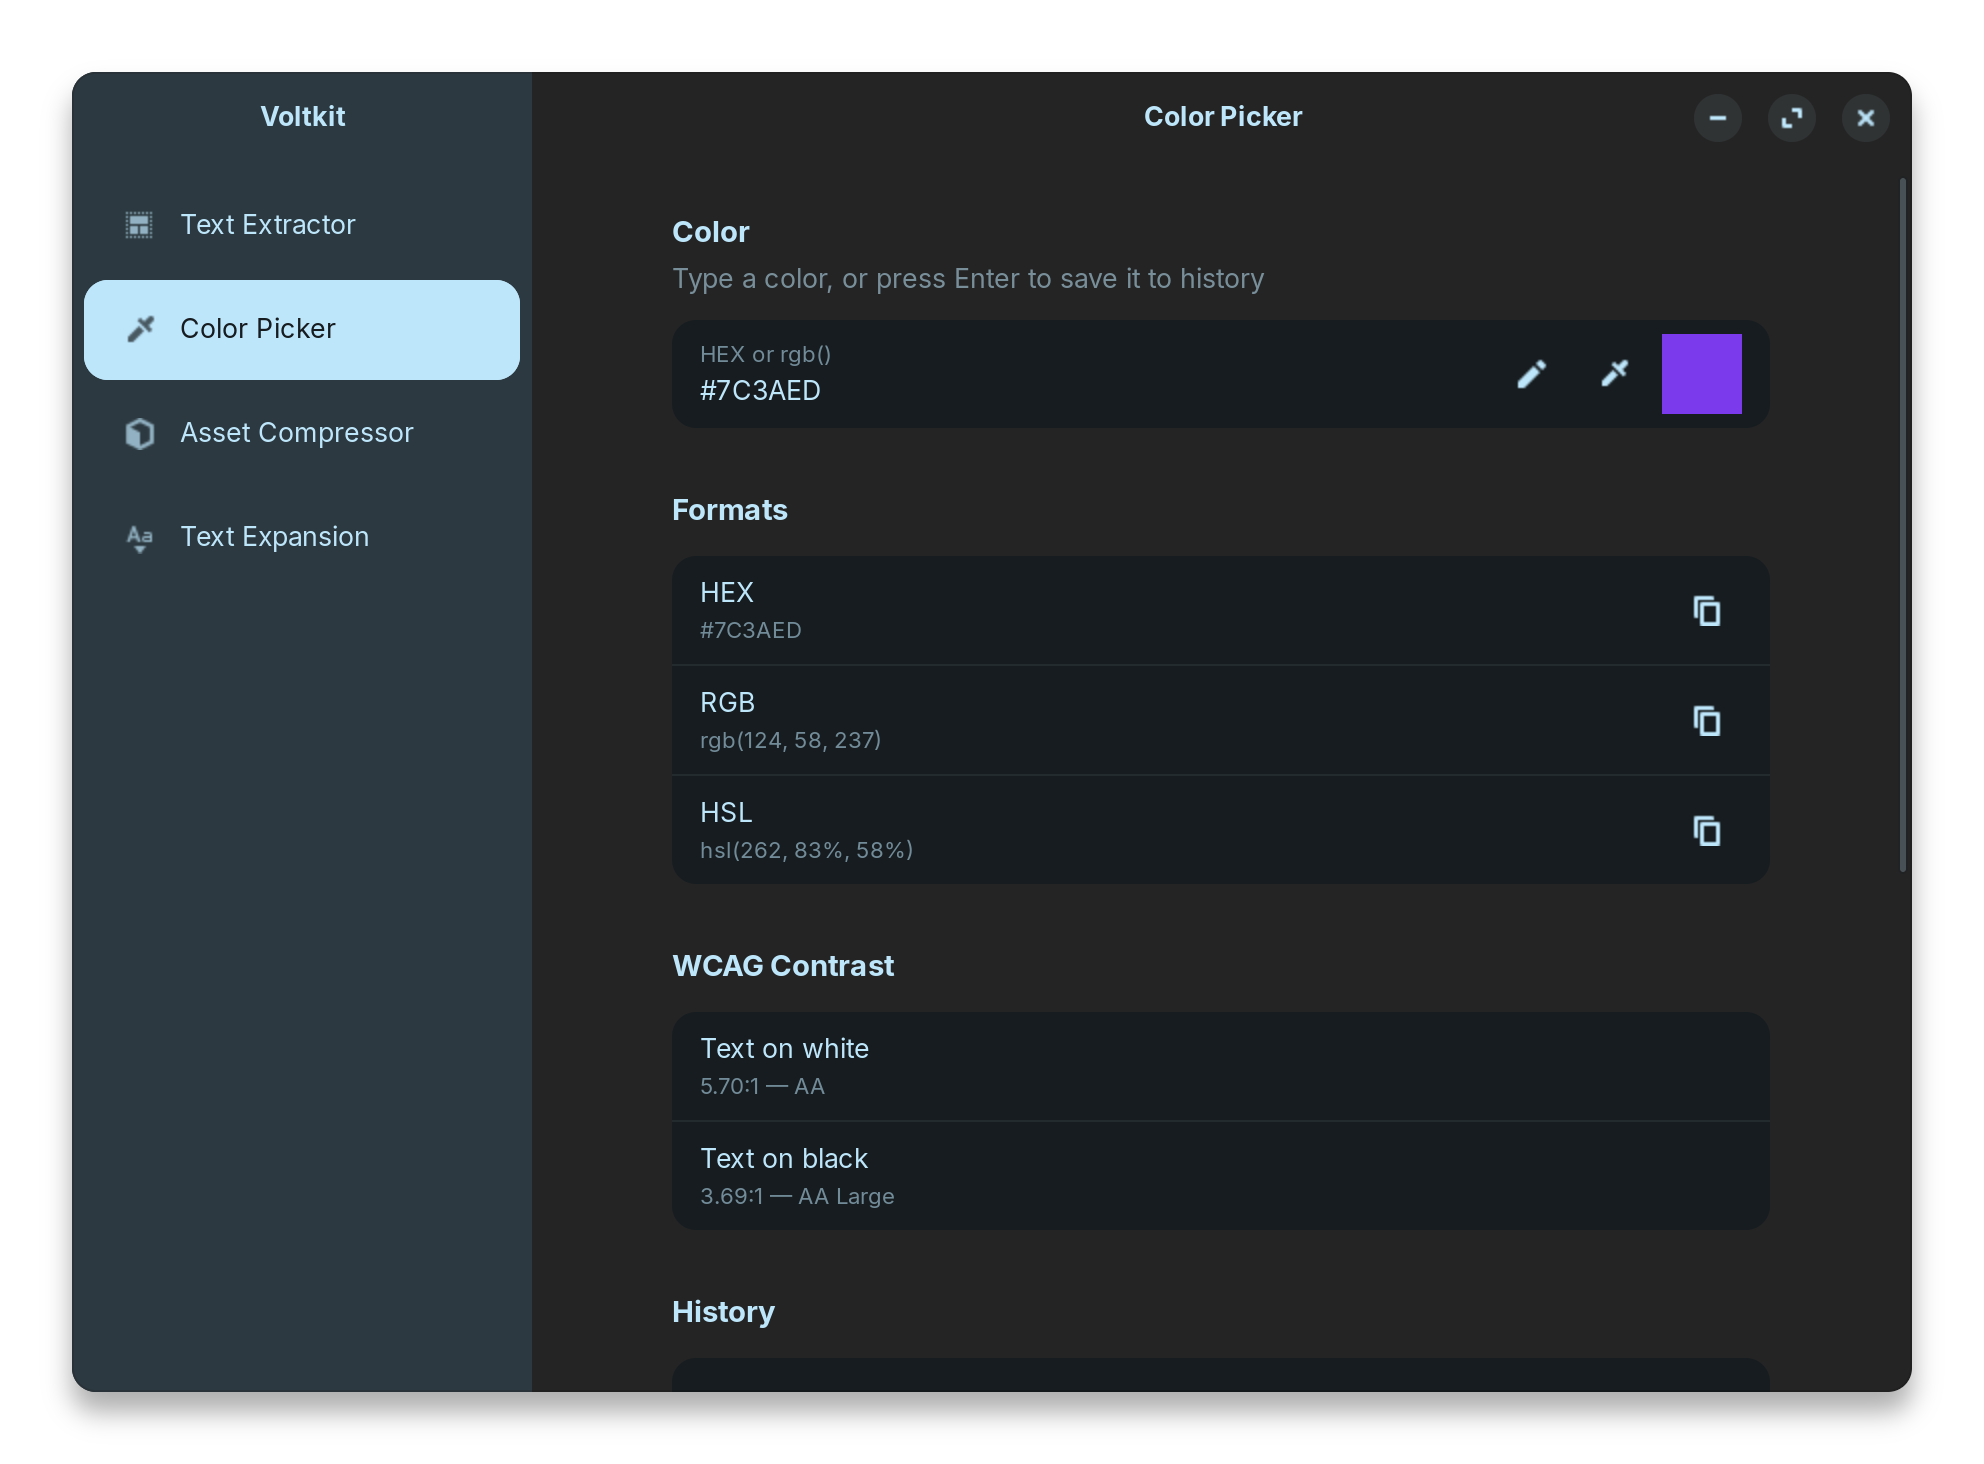
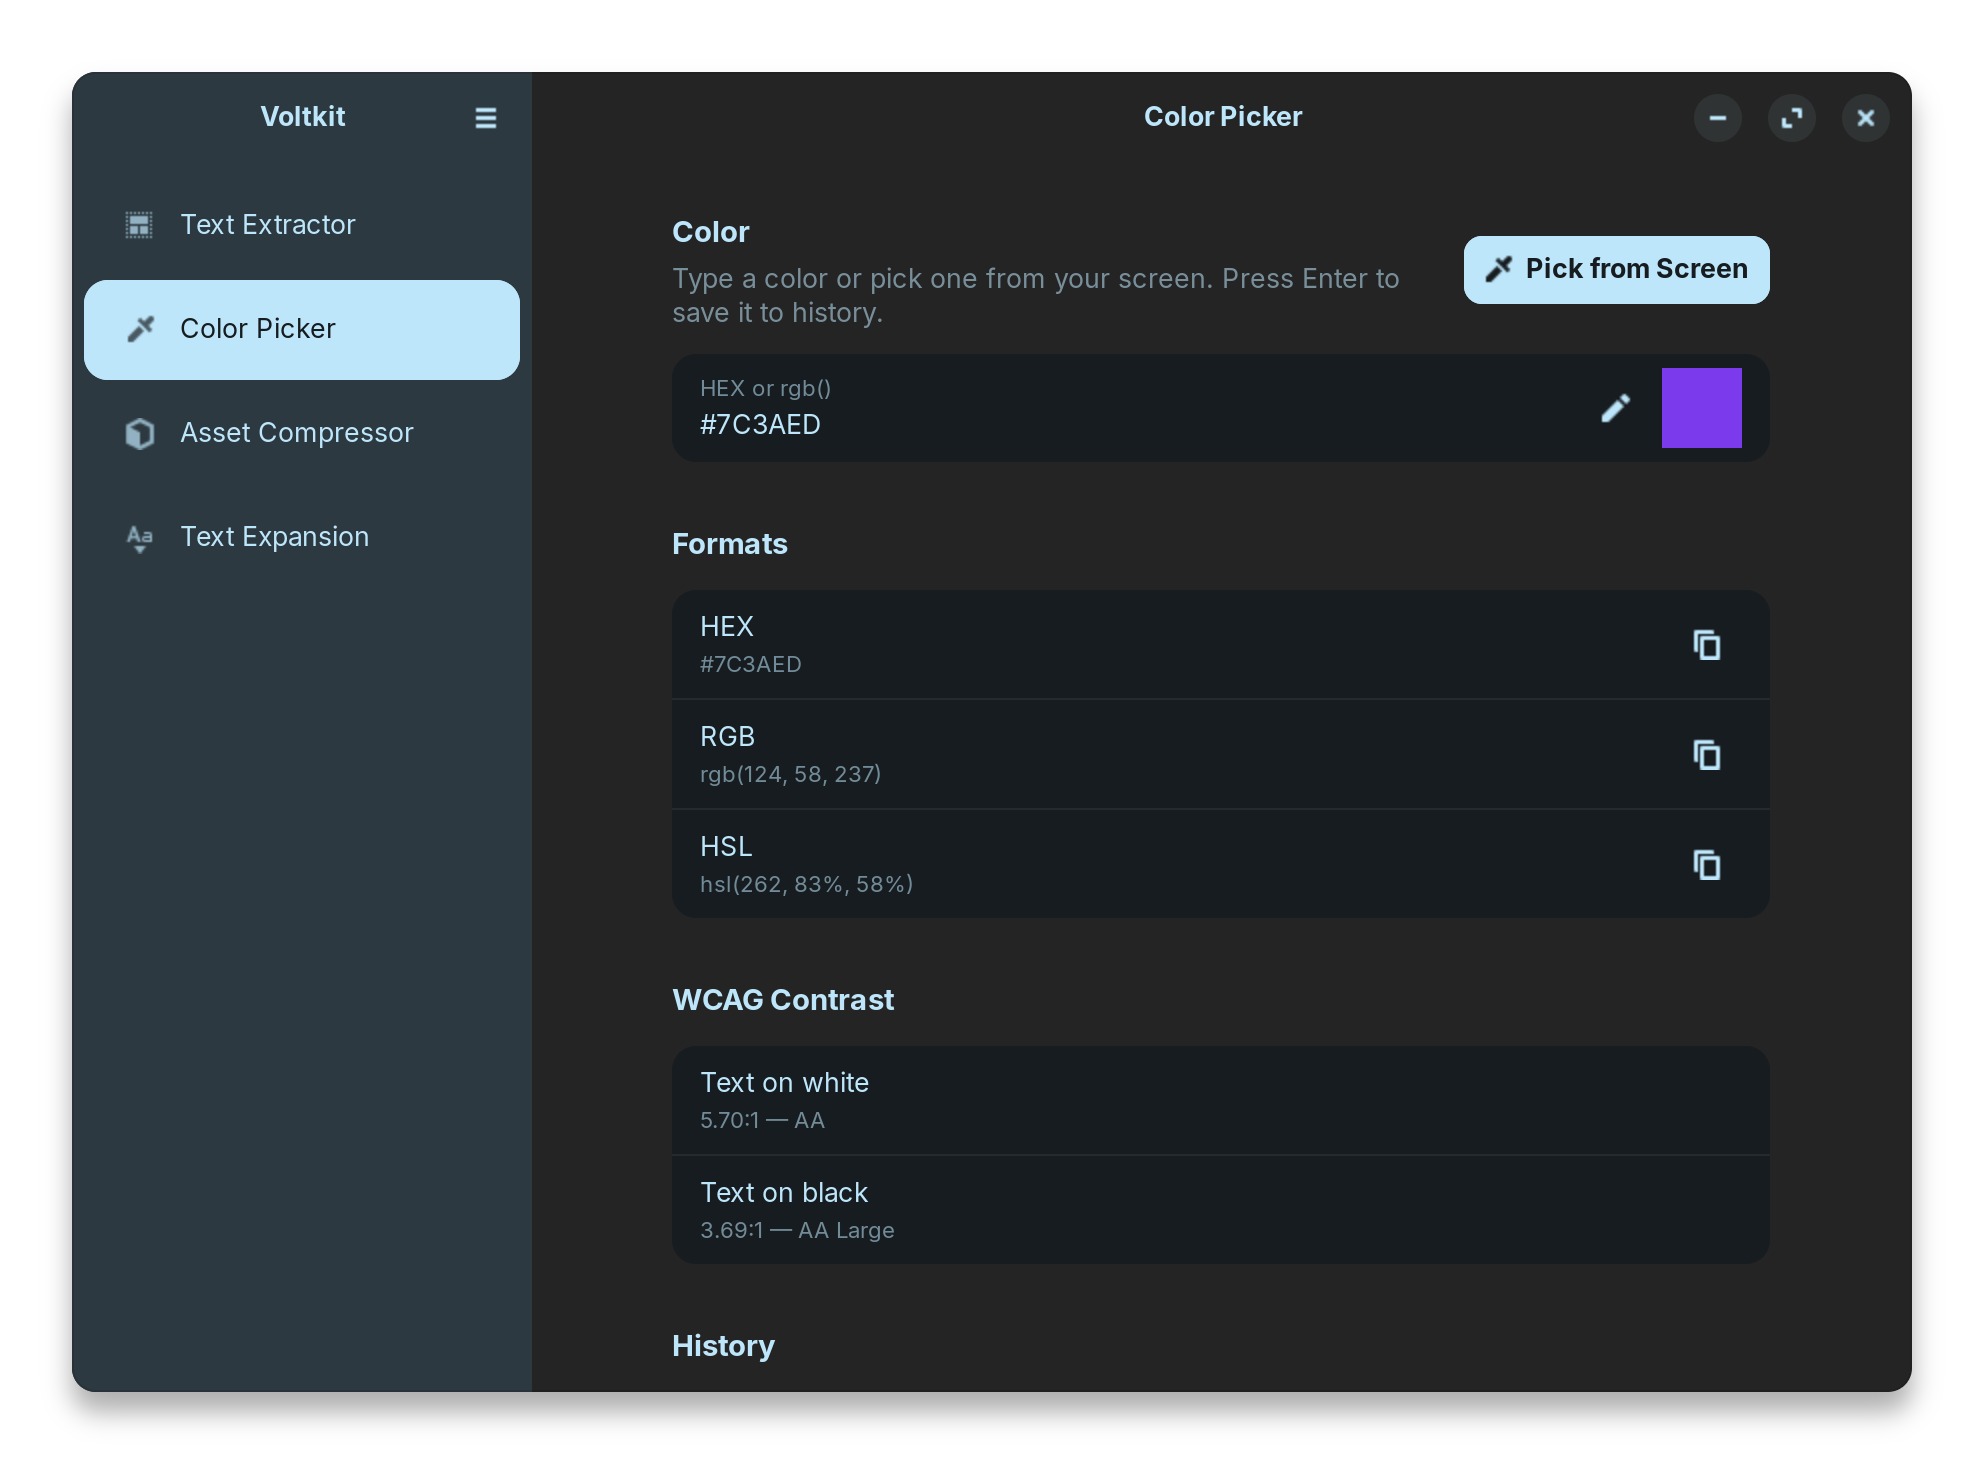
Refresh README screenshots for 0.1.2
Shows the new "Pick from Screen" button and main menu, and adds the
About window to the Author section.

diff --git a/README.md b/README.md
@@ -312,6 +312,11 @@ the repository locally: `APT_KEY_ID=<fingerprint> packaging/apt/build-repo.sh ta
 
 Created by **Alexis Rios-Negron**.
 
+<picture>
+  <source media="(prefers-color-scheme: dark)" srcset="docs/screenshots/about-dark.png">
+  <img src="docs/screenshots/about-light.png" width="640" alt="Voltkit's About window showing the app icon, version and author Alexis Rios-Negron">
+</picture>
+
 ## License
 
 MIT © Alexis Rios-Negron
